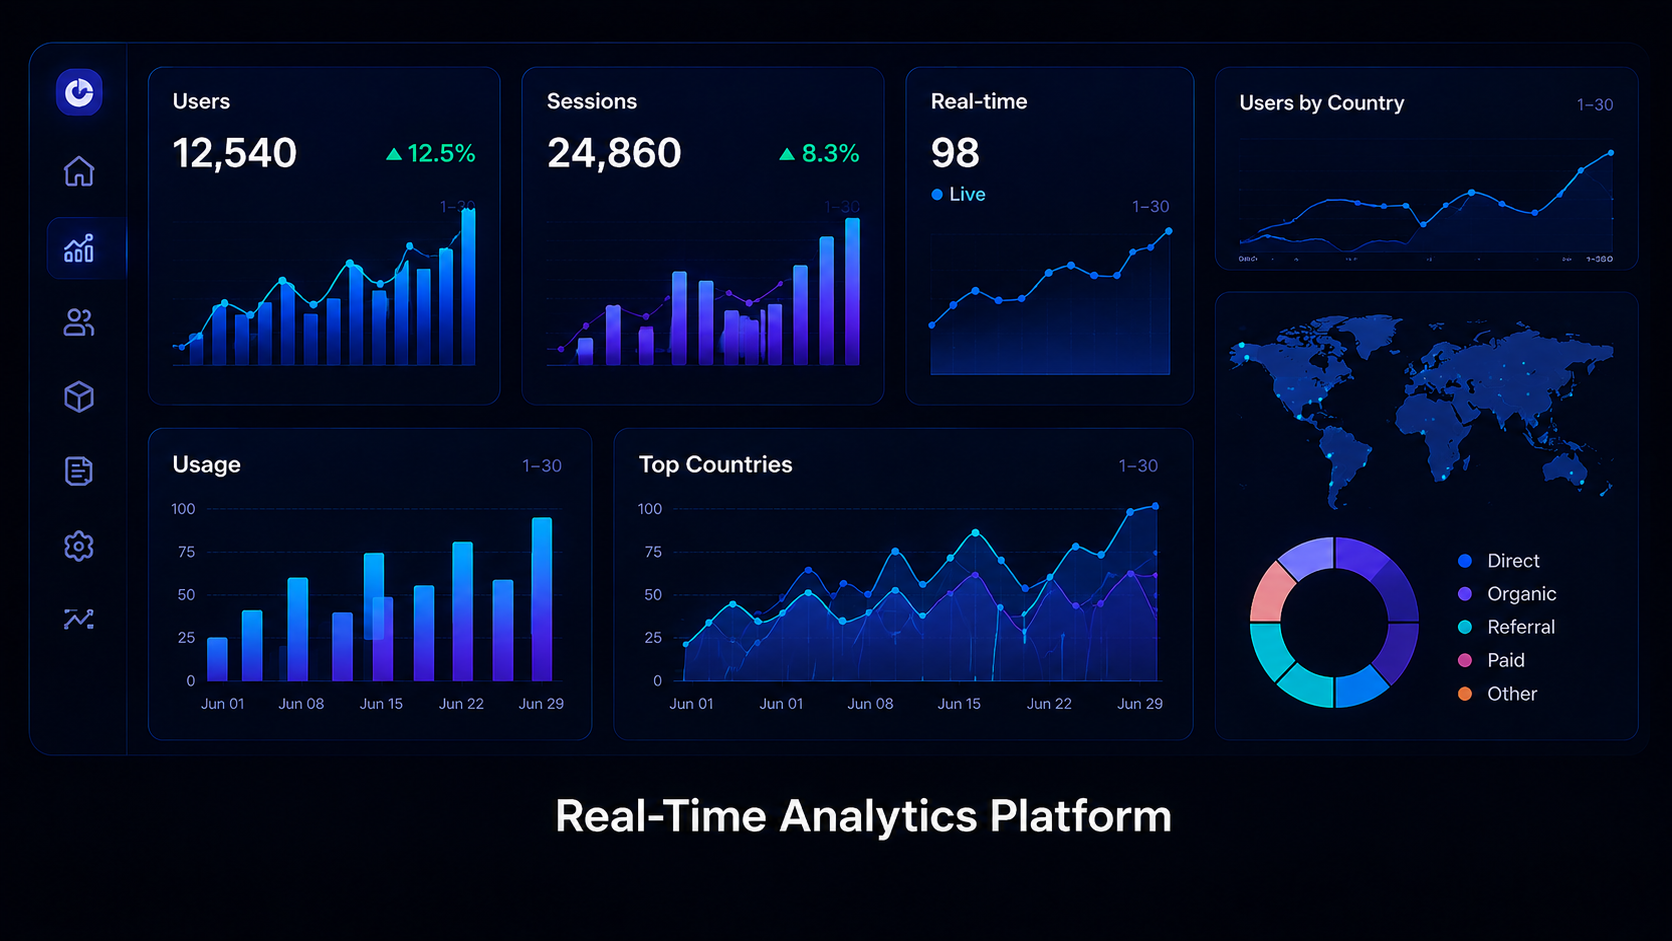
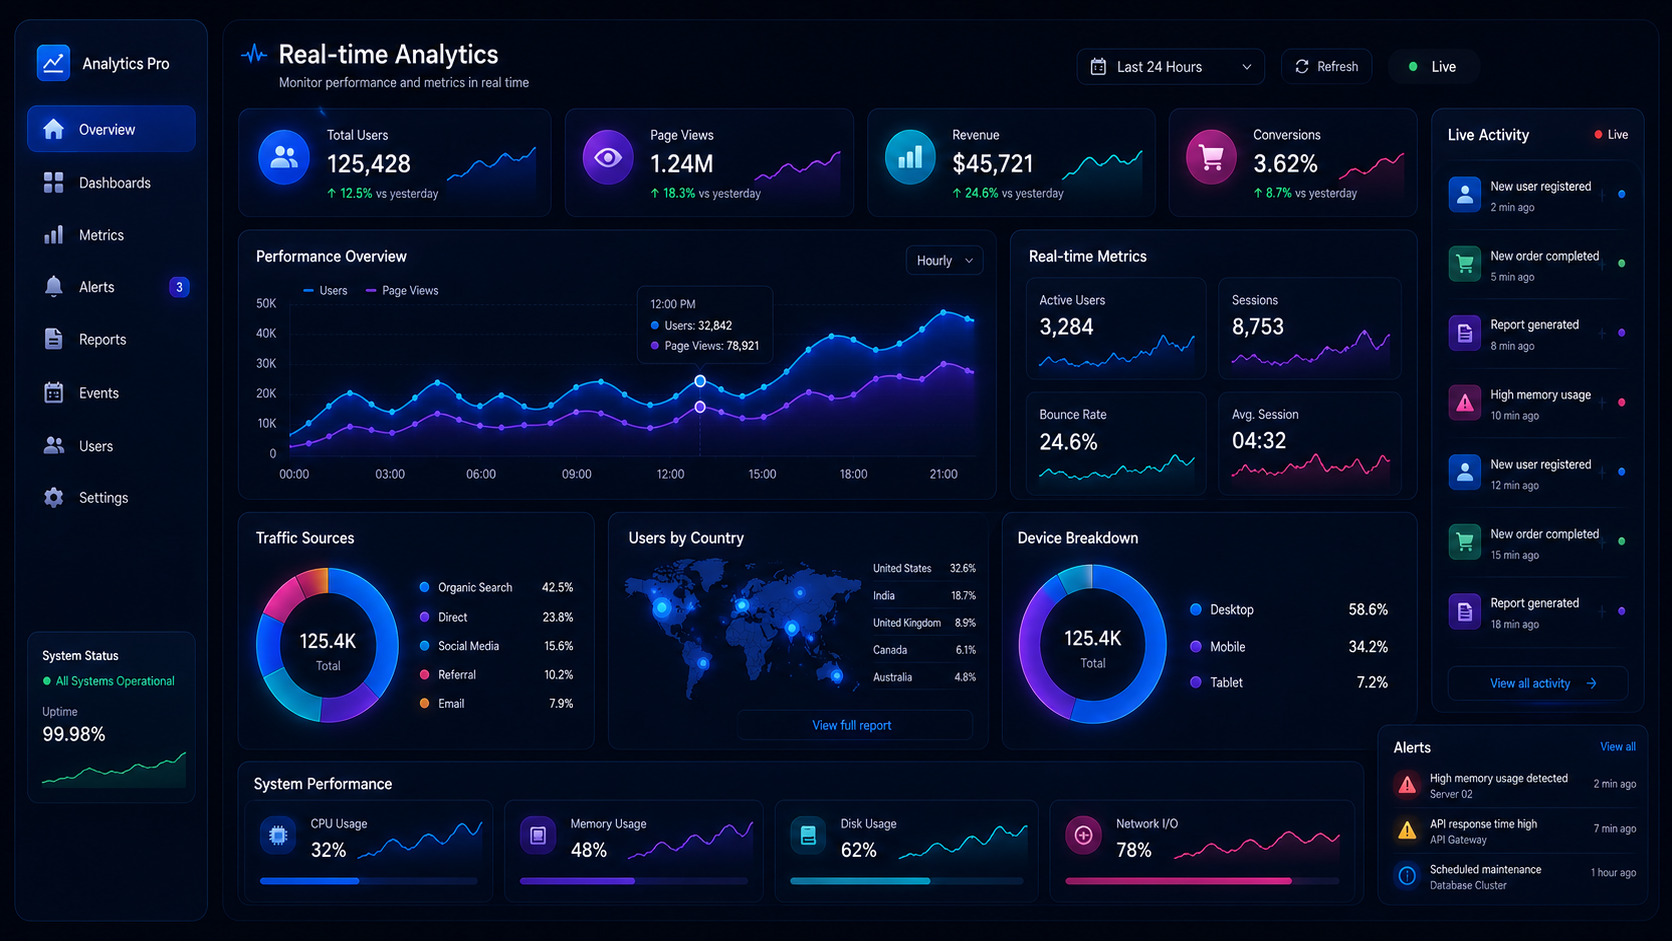
feat: preserve project filter and scroll position across navigation

diff --git a/app/projects/page.tsx b/app/projects/page.tsx
@@ -1,8 +1,8 @@
 "use client";
 
-import { useState } from "react";
+import { useState, useEffect, useRef } from "react";
 import Link from "next/link";
-import { ArrowRight } from "lucide-react";
+import { ArrowRight, ChevronUp } from "lucide-react";
 import ProjectCard from "@/components/ProjectCard";
 import { projects } from "@/data/projects";
 
@@ -28,11 +28,63 @@ const getCategoryFilter = (category: string): string => {
 };
 
 export default function ProjectsPage() {
-  const [selectedFilter, setSelectedFilter] = useState("all");
+  const [selectedFilter, setSelectedFilter] = useState(() => {
+    // Initialize from sessionStorage if available
+    if (typeof window !== 'undefined') {
+      const savedFilter = sessionStorage.getItem('projectsSelectedFilter');
+      return savedFilter || "all";
+    }
+    return "all";
+  });
+  const [showScrollTop, setShowScrollTop] = useState(false);
+  const isInitialMount = useRef(true);
 
   const filteredProjects = selectedFilter === "all"
     ? projects
     : projects.filter(project => getCategoryFilter(project.category) === selectedFilter);
+
+  // Save scroll position and filter before navigation
+  const handleProjectClick = () => {
+    sessionStorage.setItem('projectsScrollPosition', window.scrollY.toString());
+    sessionStorage.setItem('projectsSelectedFilter', selectedFilter);
+  };
+
+  // Restore scroll position on mount
+  useEffect(() => {
+    const savedPosition = sessionStorage.getItem('projectsScrollPosition');
+
+    if (savedPosition) {
+      window.scrollTo(0, parseInt(savedPosition, 10));
+      sessionStorage.removeItem('projectsScrollPosition');
+    }
+
+    // Clear the saved filter after initial restoration
+    if (isInitialMount.current) {
+      isInitialMount.current = false;
+      sessionStorage.removeItem('projectsSelectedFilter');
+    }
+  }, []);
+
+  // Clear saved filter when user manually changes filter
+  useEffect(() => {
+    if (!isInitialMount.current) {
+      sessionStorage.removeItem('projectsSelectedFilter');
+    }
+  }, [selectedFilter]);
+
+  // Show/hide scroll to top button
+  useEffect(() => {
+    const handleScroll = () => {
+      setShowScrollTop(window.scrollY > 400);
+    };
+
+    window.addEventListener('scroll', handleScroll);
+    return () => window.removeEventListener('scroll', handleScroll);
+  }, []);
+
+  const scrollToTop = () => {
+    window.scrollTo({ top: 0, behavior: 'smooth' });
+  };
 
   return (
     <section className="page">
@@ -69,10 +121,14 @@ export default function ProjectsPage() {
 
         <div className="mt-8 grid gap-5 md:grid-cols-2 xl:grid-cols-3">
           {filteredProjects.map((project) => (
-            <ProjectCard
+            <Link
               key={project.slug}
-              project={project}
-            />
+              href={`/projects/${project.slug}`}
+              onClick={handleProjectClick}
+              className="block"
+            >
+              <ProjectCard project={project} />
+            </Link>
           ))}
         </div>
 
@@ -93,6 +149,17 @@ export default function ProjectsPage() {
           </Link>
         </div>
       </div>
+
+      {/* Scroll to Top Button */}
+      {showScrollTop && (
+        <button
+          onClick={scrollToTop}
+          className="fixed bottom-8 right-8 flex h-12 w-12 items-center justify-center rounded-full bg-violet-600 text-white shadow-lg shadow-violet-600/30 transition hover:bg-violet-500 hover:shadow-violet-500/40"
+          aria-label="Scroll to top"
+        >
+          <ChevronUp size={20} />
+        </button>
+      )}
     </section>
   );
 }

diff --git a/app/projects/[slug]/page.tsx b/app/projects/[slug]/page.tsx
@@ -62,9 +62,9 @@ export default async function ProjectPage({
             </p>
 
             <div className="mt-6 flex flex-wrap gap-2">
-              {project.technologies.map((technology) => (
+              {project.technologies.map((technology, index) => (
                 <span
-                  key={technology}
+                  key={`${technology}-${index}`}
                   className="rounded-md border border-white/10 bg-white/[0.03] px-3 py-2 text-[10px] text-gray-400"
                 >
                   {technology}
@@ -105,9 +105,9 @@ export default async function ProjectPage({
             </h2>
 
             <div className="mt-5 space-y-3">
-              {project.features.map((feature) => (
+              {project.features.map((feature, index) => (
                 <div
-                  key={feature}
+                  key={`${feature}-${index}`}
                   className="flex gap-3 text-xs text-gray-500"
                 >
                   <Check
@@ -128,9 +128,9 @@ export default async function ProjectPage({
           </h2>
 
           <div className="mt-5 flex flex-wrap gap-3">
-            {project.technologies.map((technology) => (
+            {project.technologies.map((technology, index) => (
               <div
-                key={technology}
+                key={`${technology}-${index}`}
                 className="rounded-lg border border-white/10 bg-[#0b1123] px-4 py-3 text-xs text-gray-400"
               >
                 {technology}

diff --git a/components/ProjectCard.tsx b/components/ProjectCard.tsx
@@ -1,4 +1,3 @@
-import Link from "next/link";
 import Image from "next/image";
 import { ArrowUpRight } from "lucide-react";
 import { Project } from "@/data/projects";
@@ -9,10 +8,7 @@ export default function ProjectCard({
   project: Project;
 }) {
   return (
-    <Link
-      href={`/projects/${project.slug}`}
-      className="group card overflow-hidden rounded-xl transition duration-300 hover:-translate-y-1 hover:border-violet-500/30"
-    >
+    <div className="group card overflow-hidden rounded-xl transition duration-300 hover:-translate-y-1 hover:border-violet-500/30">
       <div className="relative aspect-[1.55] overflow-hidden">
         <Image
           src={project.image}
@@ -45,9 +41,9 @@ export default function ProjectCard({
         </p>
 
         <div className="mt-4 flex flex-wrap gap-1.5">
-          {project.technologies.slice(0, 4).map((technology) => (
+          {project.technologies.slice(0, 4).map((technology, index) => (
             <span
-              key={technology}
+              key={`${technology}-${index}`}
               className="rounded-md border border-white/10 bg-white/[0.02] px-2 py-1 text-[9px] text-gray-500"
             >
               {technology}
@@ -55,6 +51,6 @@ export default function ProjectCard({
           ))}
         </div>
       </div>
-    </Link>
+    </div>
   );
 }

diff --git a/data/projects.ts b/data/projects.ts
@@ -724,7 +724,6 @@ export const projects: Project[] = [
       "Tailwind CSS",
       "HTML5",
       "CSS3",
-      "Tailwind CSS",
     ],
     features: [
       "Responsive interfaces",
